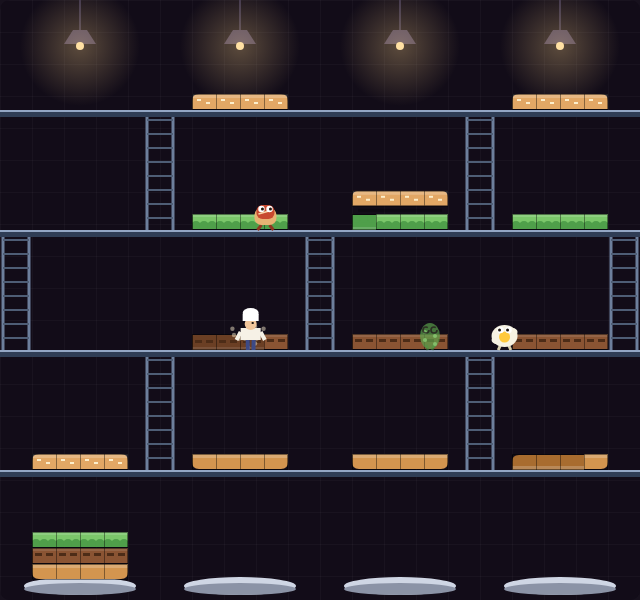
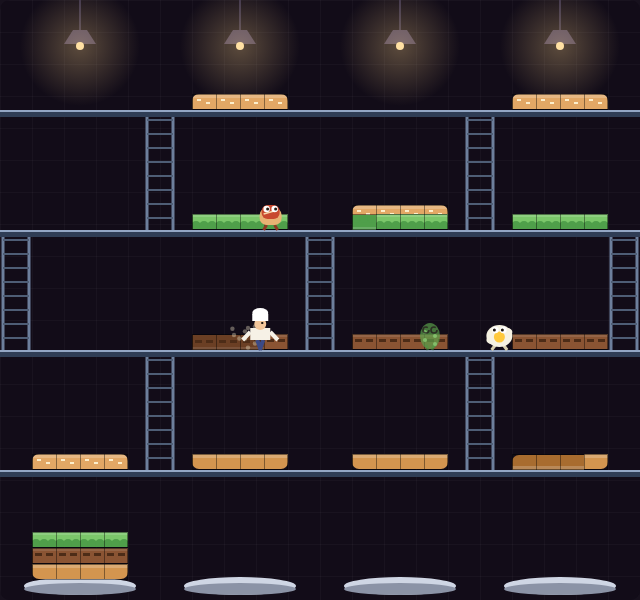
Polish Burger Time art, monster spawns and test coverage
- Draw layers as real burger slices: clipped rounded bun crusts, scalloped
  lettuce edges, grill marks, sesame seeds, and a clearly darker face on
  flipped slices so a layer's progress is readable at a glance
- Give each monster kind its own sprite (sausage in a bun, fried egg with
  a yolk, bumpy gherkin) plus walk-cycle legs and a stunned swirl
- Add ceiling lamps and falling-layer shadows to the kitchen
- Spread monster spawn points across the top and bottom floors so
  respawns do not pile onto the floor the player is working on
- Add tests for spawn spread, respawn placement, the two monster ladder
  habits, and a two-minute unattended session that must not throw

Claude-Session: https://claude.ai/code/session_01VVA1PjWfTMP9Cw3nD5UyyK

diff --git a/BurgerTime/tests/burgertime.spec.js b/BurgerTime/tests/burgertime.spec.js
@@ -525,6 +525,26 @@ test.describe('Burger Time', () => {
             expect(resumed.after).toBeGreaterThan(resumed.start);
         });
 
+        test('spawn points are spread over more than one floor', async ({ page }) => {
+            const rows = await page.evaluate(() => [...new Set(ENEMY_SPAWNS.map((s) => s.row))]);
+            expect(rows.length).toBeGreaterThan(1);
+        });
+
+        test('a squashed monster comes back at its own spawn point', async ({ page }) => {
+            const back = await page.evaluate(() => {
+                startGame();
+                enemies.length = 0;
+                const e = spawnEnemy({ x: 300, row: 2, spawnIndex: 3 });
+                killEnemy(e);
+                // stop the moment it is back, before it can walk anywhere
+                for (let i = 0; i < Math.ceil(RESPAWN_TIME / 0.016) + 5 && e.dead; i++) step(0.016);
+                const spot = ENEMY_SPAWNS[3];
+                return { x: e.x, row: e.row, spot };
+            });
+            expect(back.x).toBe(back.spot.x);
+            expect(back.row).toBe(back.spot.row);
+        });
+
         test('monsters split between two ladder habits so they do not clump', async ({ page }) => {
             const dirs = await page.evaluate(() => {
                 startGame();
@@ -890,6 +910,23 @@ test.describe('Burger Time', () => {
             expect(fresh.layers).toBe(16);
             expect(fresh.plated).toBe(0);
             expect(fresh.monsters).toBe(2);
+        });
+
+        test('a long unattended session never throws', async ({ page }) => {
+            const errors = [];
+            page.on('pageerror', (e) => errors.push(String(e)));
+            const after = await page.evaluate(() => {
+                startGame();
+                // two minutes of simulated time: monsters chase, layers fall,
+                // lives are lost, the game ends and the board keeps drawing
+                for (let i = 0; i < 7200; i++) {
+                    step(0.016);
+                    if (i % 60 === 0) draw();
+                }
+                return { state, lives };
+            });
+            expect(errors).toEqual([]);
+            expect(['running', 'over']).toContain(after.state);
         });
 
         test('the simulation does not advance when the game is over', async ({ page }) => {

diff --git a/BurgerTime/game.js b/BurgerTime/game.js
@@ -56,9 +56,13 @@ const ENEMY_BASE_SPEED = 62;
 const ENEMY_SPEED_STEP = 8;
 const ENEMY_MIN = 2;
 const ENEMY_MAX = 5;
+// Spawn points alternate between the top and the bottom floor, so a monster
+// coming back from a squashing never all pile onto the floor the player is
+// working on.
 const ENEMY_SPAWNS = [
-    { x: 16, row: 0 }, { x: 624, row: 0 }, { x: 320, row: 0 },
-    { x: 16, row: 1 }, { x: 624, row: 1 },
+    { x: 16, row: 0 }, { x: 624, row: 0 },
+    { x: 16, row: FLOOR_ROWS - 1 }, { x: 624, row: FLOOR_ROWS - 1 },
+    { x: 320, row: 0 },
 ];
 const RESPAWN_TIME = 3;
 const STUN_TIME = 4;
@@ -766,28 +770,22 @@ function drawSegment(ing, s) {
     const first = s === 0;
     const last = s === ING_SEGS - 1;
 
+    // Buns get a rounded crust on their outer ends — as a clipped path, so the
+    // corners stay transparent whatever the slice happens to be drawn over.
+    const radii = [0, 0, 0, 0];             // top-left, top-right, bottom-right, bottom-left
+    if (ing.type === 'bunTop' || ing.type === 'bunBottom') {
+        const domeUp = (ing.type === 'bunTop') !== flipped;
+        if (first) radii[domeUp ? 0 : 3] = 7;
+        if (last) radii[domeUp ? 1 : 2] = 7;
+    }
+
     ctx.save();
     ctx.beginPath();
-    ctx.rect(x, y, w, h);
+    ctx.roundRect(x, y, w, h, radii);
     ctx.clip();
 
     ctx.fillStyle = flipped ? colors.edge : colors.face;
     ctx.fillRect(x, y, w, h);
-
-    // rounded crust on the outer ends of the buns
-    if (ing.type === 'bunTop' || ing.type === 'bunBottom') {
-        const domeUp = (ing.type === 'bunTop') !== flipped;
-        ctx.fillStyle = '#120c18';
-        if (first || last) {
-            const cx = first ? x + 7 : x + w - 7;
-            ctx.beginPath();
-            ctx.moveTo(first ? x : x + w, domeUp ? y : y + h);
-            ctx.lineTo(first ? x : x + w, domeUp ? y + 7 : y + h - 7);
-            ctx.quadraticCurveTo(first ? x : x + w, domeUp ? y : y + h, cx, domeUp ? y : y + h);
-            ctx.closePath();
-            ctx.fill();
-        }
-    }
 
     if (ing.type === 'lettuce') {
         // scalloped leaf edge on the exposed side
